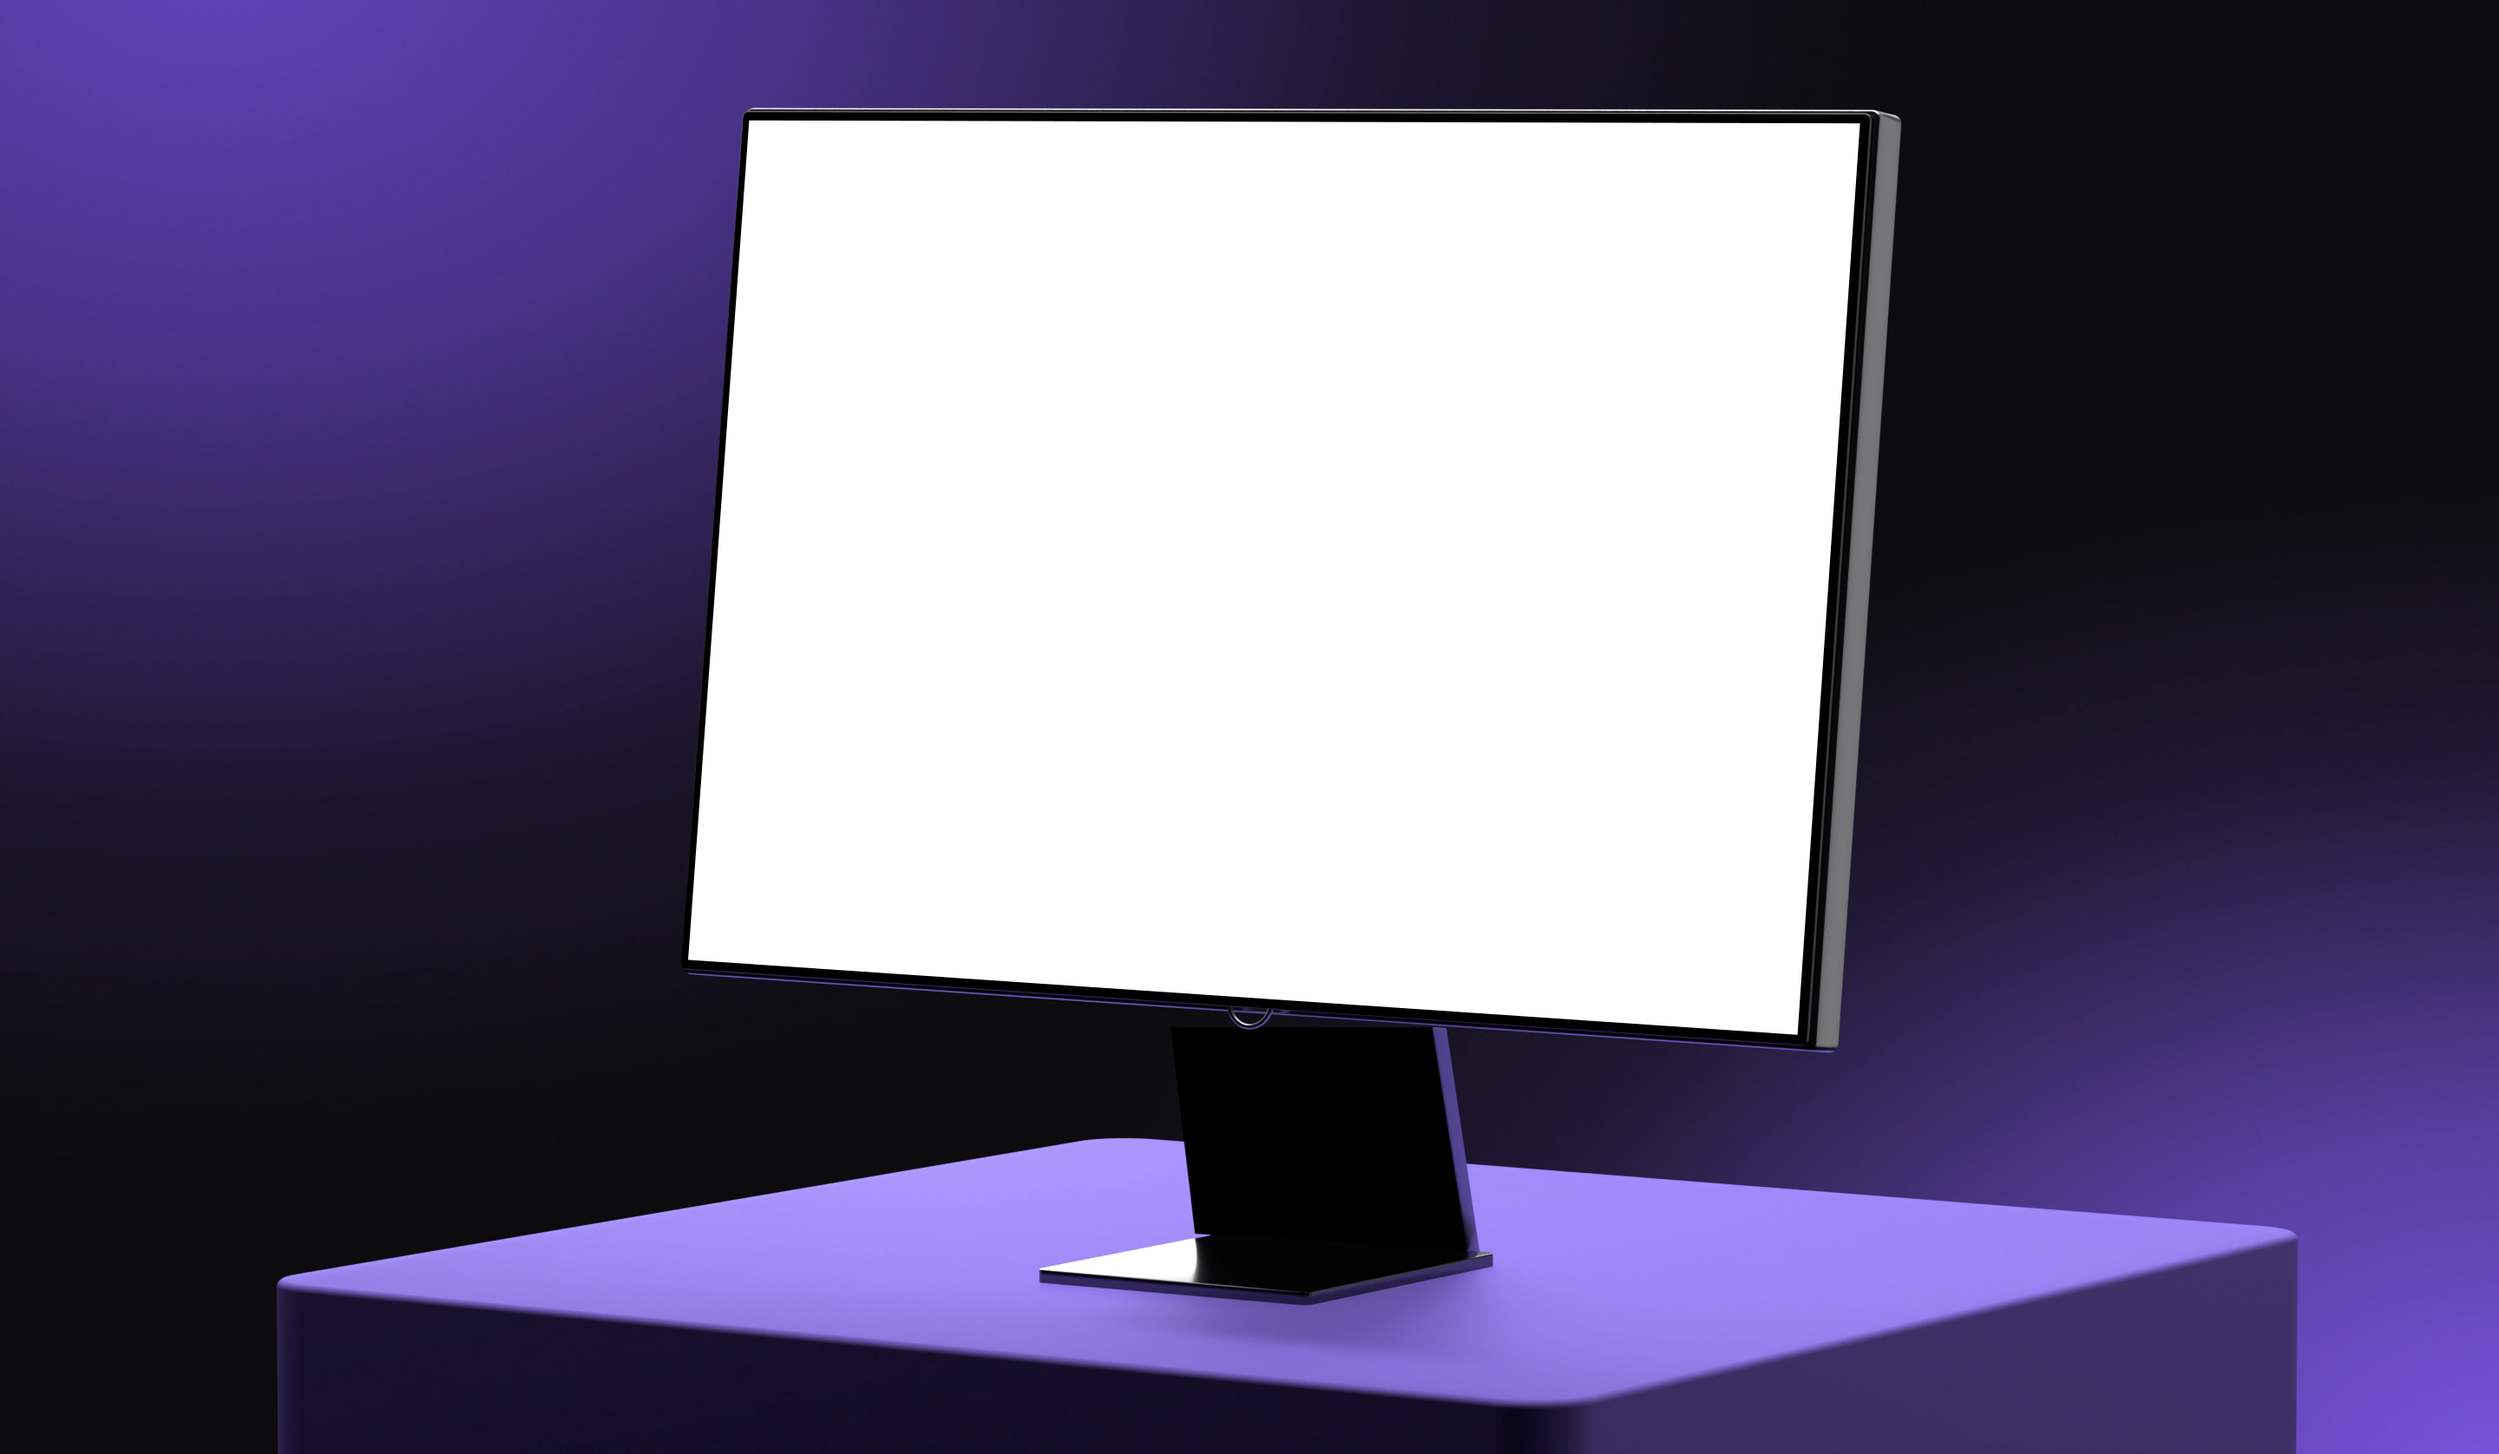
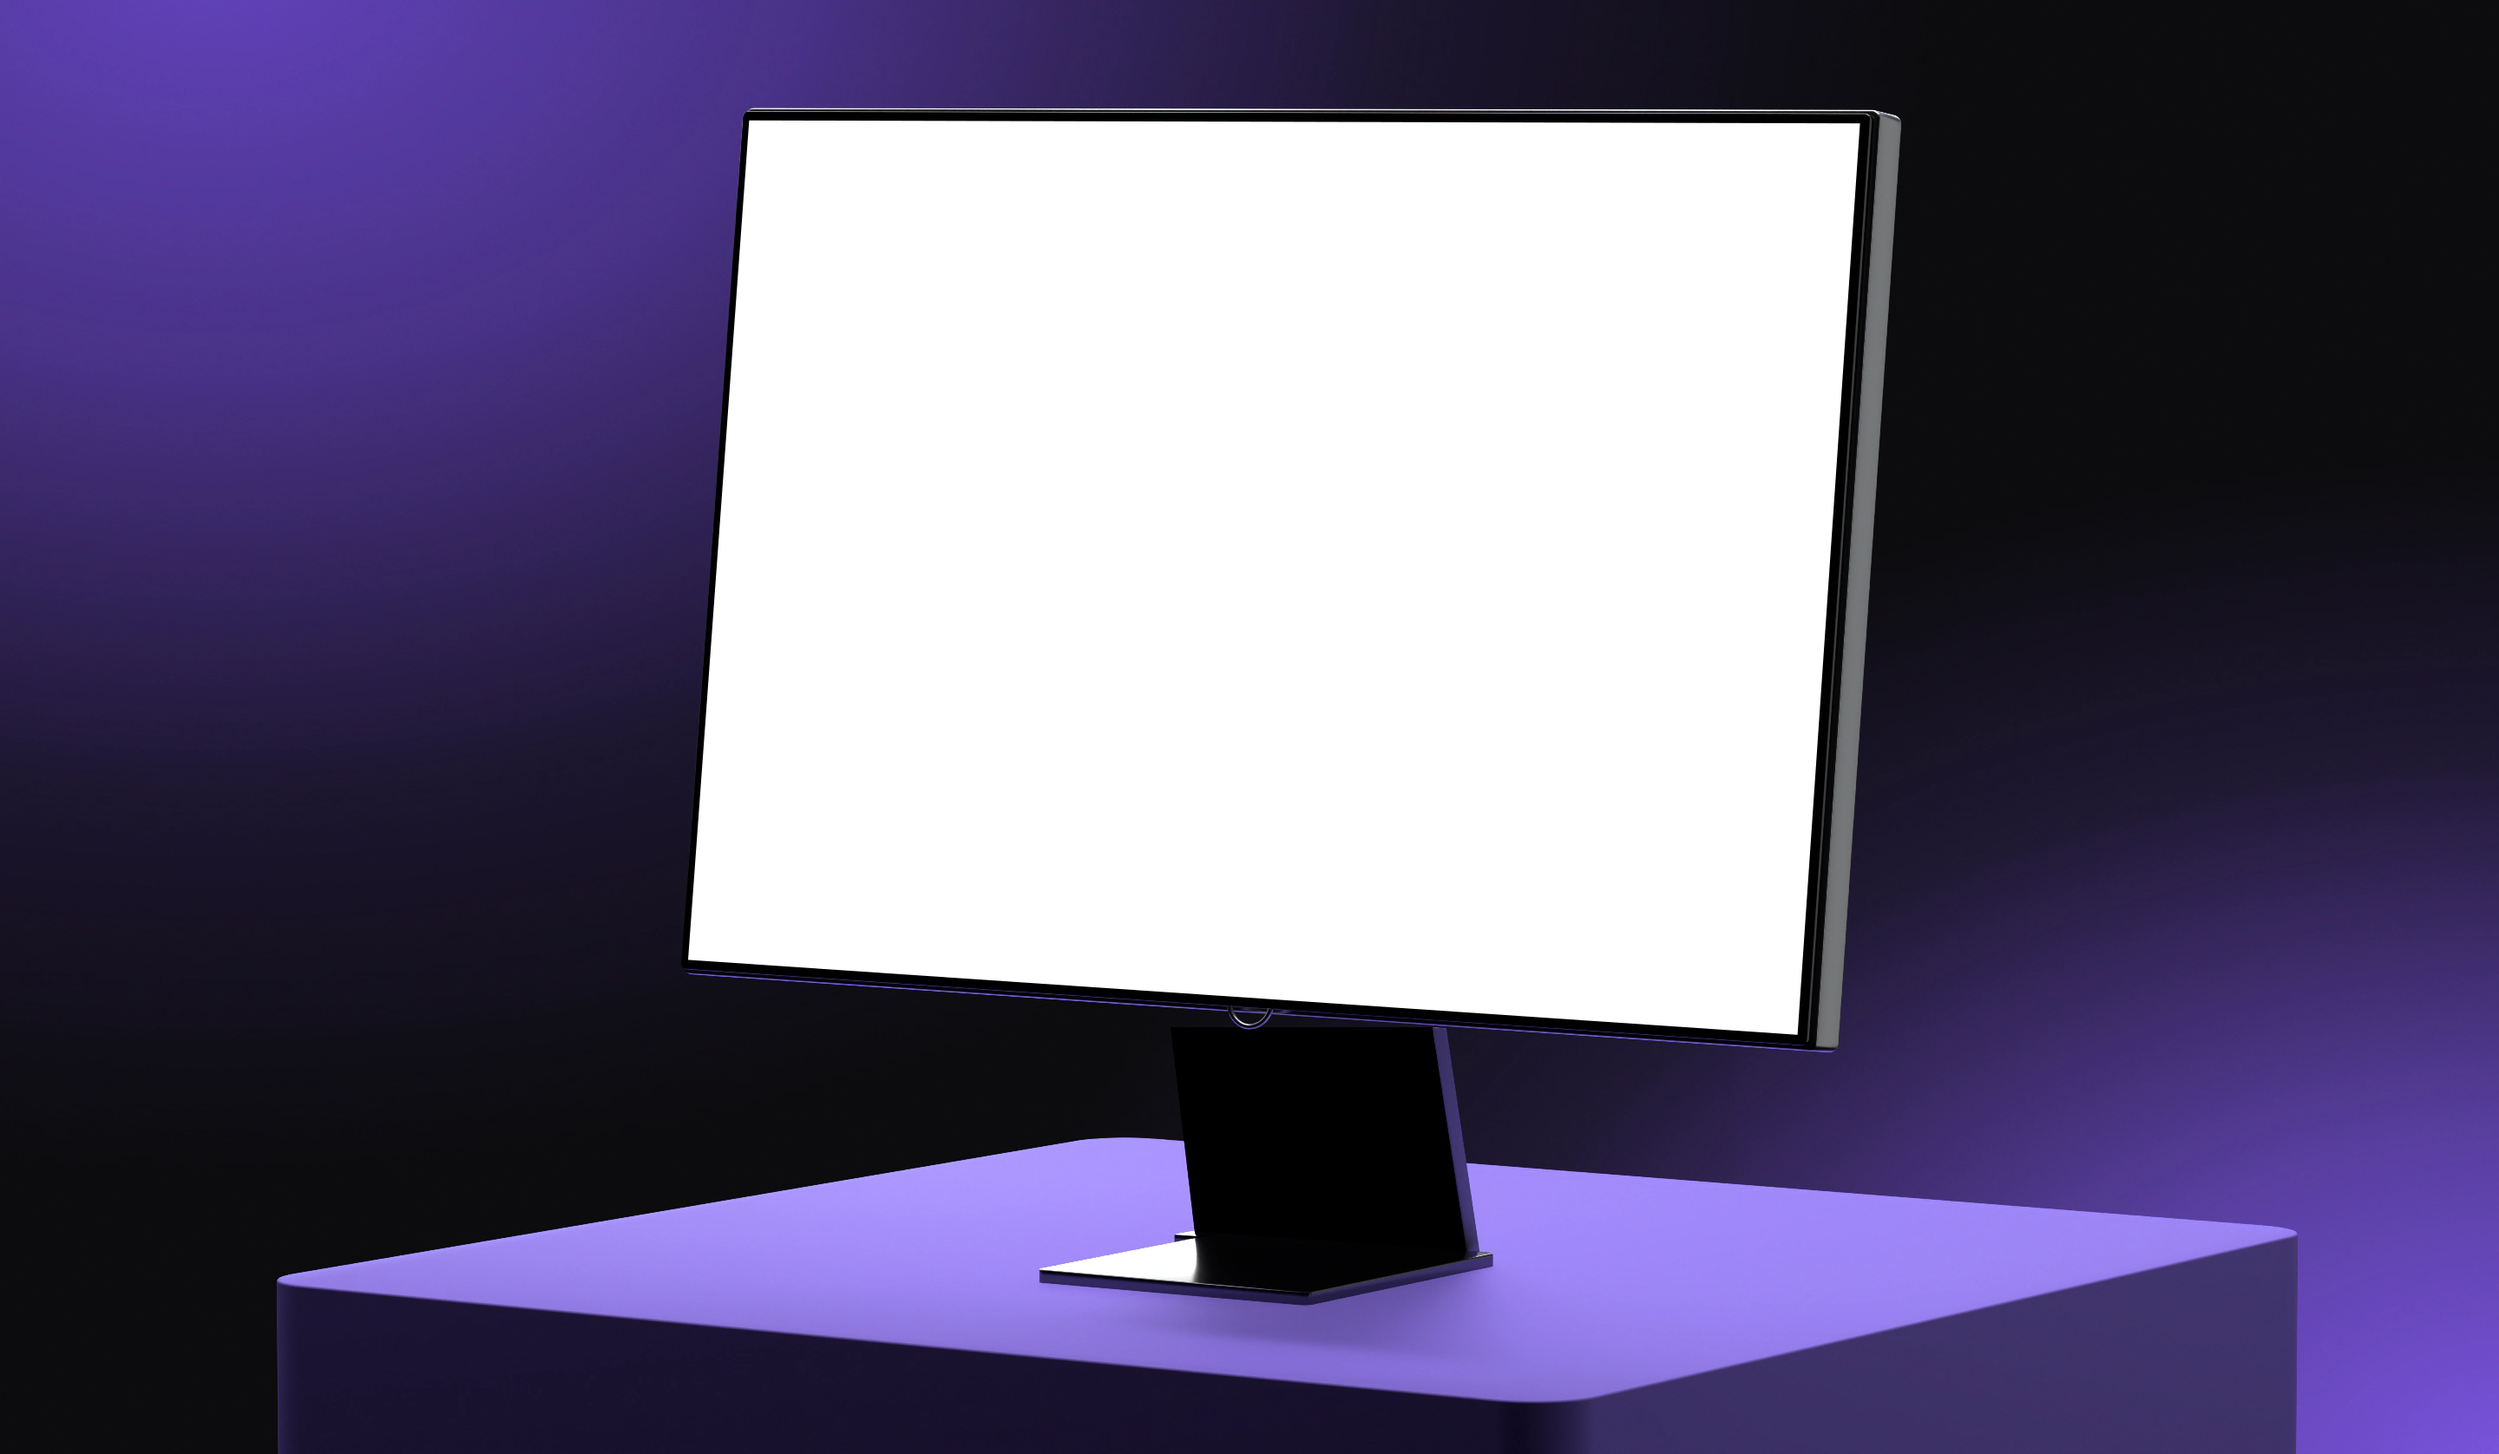
Devsign cover: crisp plinth edge, no sliver at the neck base

diff --git a/scripts/cover-3d/blender_scene.py b/scripts/cover-3d/blender_scene.py
@@ -53,7 +53,7 @@ PURPLE = mat('plinth', '#8f76e8', 0.7, spec=0.04)
 SILVER = mat('silver', '#c9cdd0', 0.26, metal=1)
 BLACKM = mat('stand', '#050506', 0.3, metal=1)
 NECKM = mat('neck', '#020203', 0.45, spec=0.0)
-STRIP = mat('strip', '#7c8288', 0.34, metal=1)
+STRIP = mat('strip', '#70747a', 0.5, spec=0.3)
 FOOTM = mat('foot', '#60626a', 0.16, metal=1)
 GLASS = mat('bezel', '#040405', 0.12, coat=1)
 
@@ -111,7 +111,7 @@ def hexa(name, pts, material):
     o = bpy.data.objects.new(name, me); scene.collection.objects.link(o); return o
 
 # Plinth: top at height 0, running down 3 units.
-solid('plinth', rounded(PW, PD, PC, 32), -3, 0, T(PX, PY, PZ) @ Ry(PYAW) @ XZ, PURPLE, bevel=0.01)
+solid('plinth', rounded(PW, PD, PC, 32), -3, 0, T(PX, PY, PZ) @ Ry(PYAW) @ XZ, PURPLE, bevel=0.0035, bseg=3)
 
 # Monitor: an aluminium shell, the black glass front a hair proud of it.
 bw, bh = SW + BZ * 2, SH + BZ * 2
@@ -139,6 +139,11 @@ n = (MONM.to_3x3() @ Vector((0, 0, -1))).normalized() * 0.03
 a, b, c, d = [Vector(q) for q in (NECK_BASE[0], NECK_BASE[1], NECK_TOP[1], NECK_TOP[0])]
 a.y = b.y = PY + 0.012  # sunk into the foot, so the two meet with no gap
 hexa('neck', [a, b, c, d, a + n, b + n, c + n, d + n], NECKM)
+# The neck's base stops just behind the plate's back edge at its left end: fill that sliver.
+fw = -n * 1.6
+ft, fb = PY + 0.0165, PY + 0.0005
+qs = [Vector((q.x, ft, q.z)) for q in (a, b, b + fw, a + fw)] + [Vector((q.x, fb, q.z)) for q in (a, b, b + fw, a + fw)]
+hexa('neck_seat', qs, FOOTM)
 # The neck's right side: the thin lit strip on the reference.
 u = (b - a).normalized() * 0.003
 hexa('neck_side', [b, c, c + n, b + n, b + u, c + u, c + n + u, b + n + u], STRIP)
@@ -189,6 +194,7 @@ for dev in prefs.devices: dev.use = True
 scene.cycles.device = 'GPU'
 scene.cycles.samples = SAMPLES
 scene.cycles.use_denoising = True
+scene.cycles.filter_width = 0.9  # default 1.5 softens every edge
 scene.cycles.max_bounces = 8
 scene.render.film_transparent = True
 scene.render.resolution_x, scene.render.resolution_y = W, H
